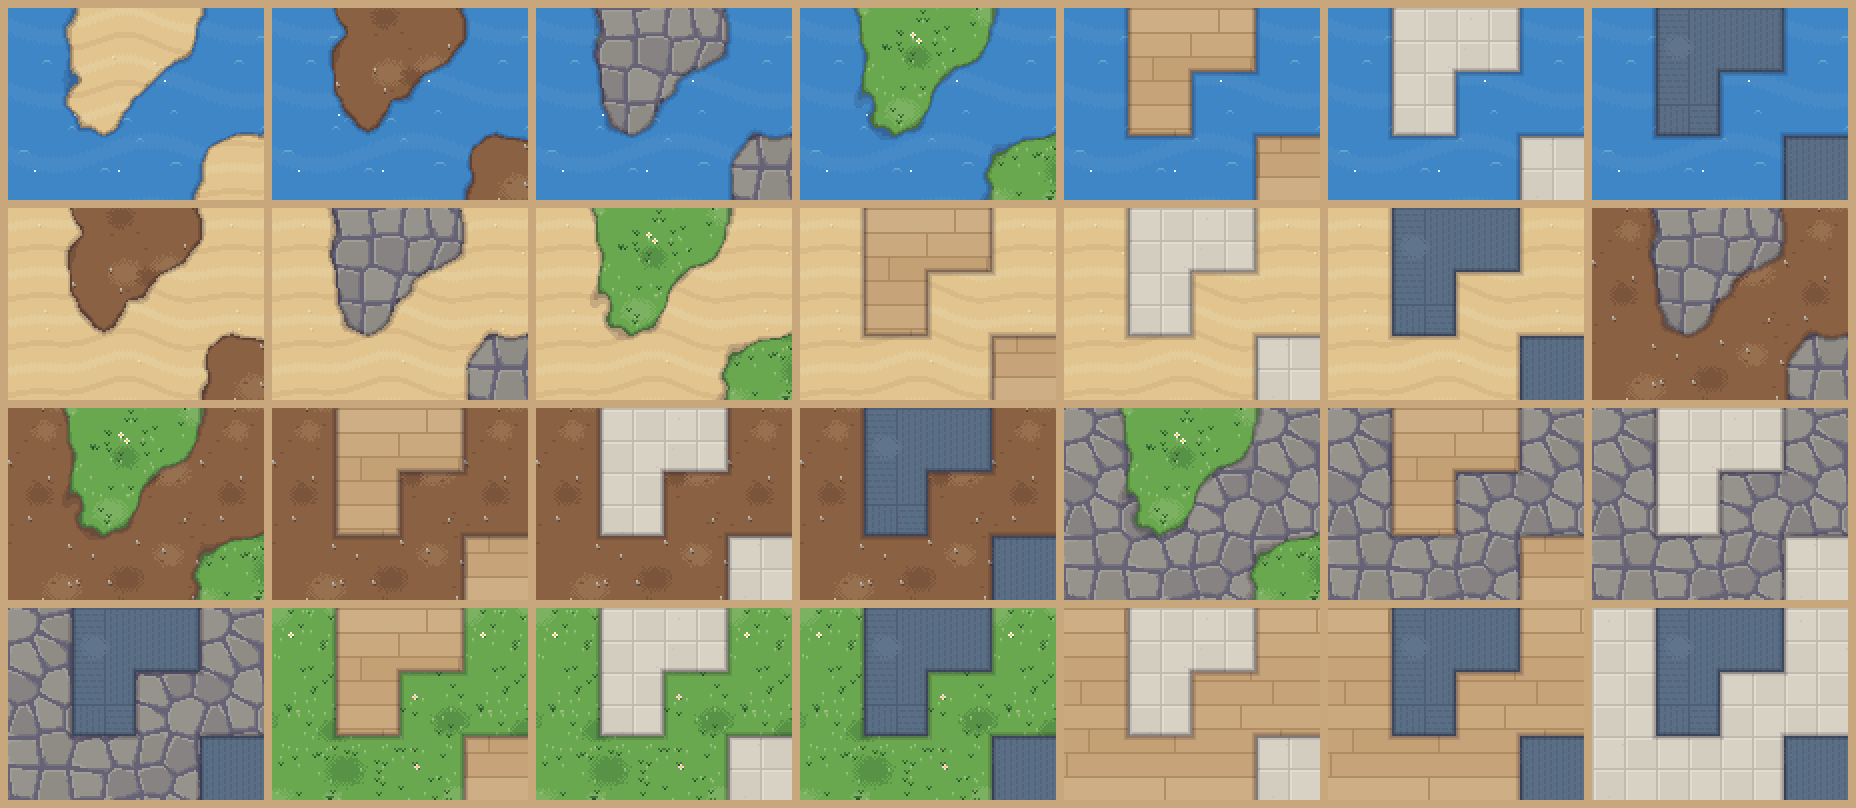
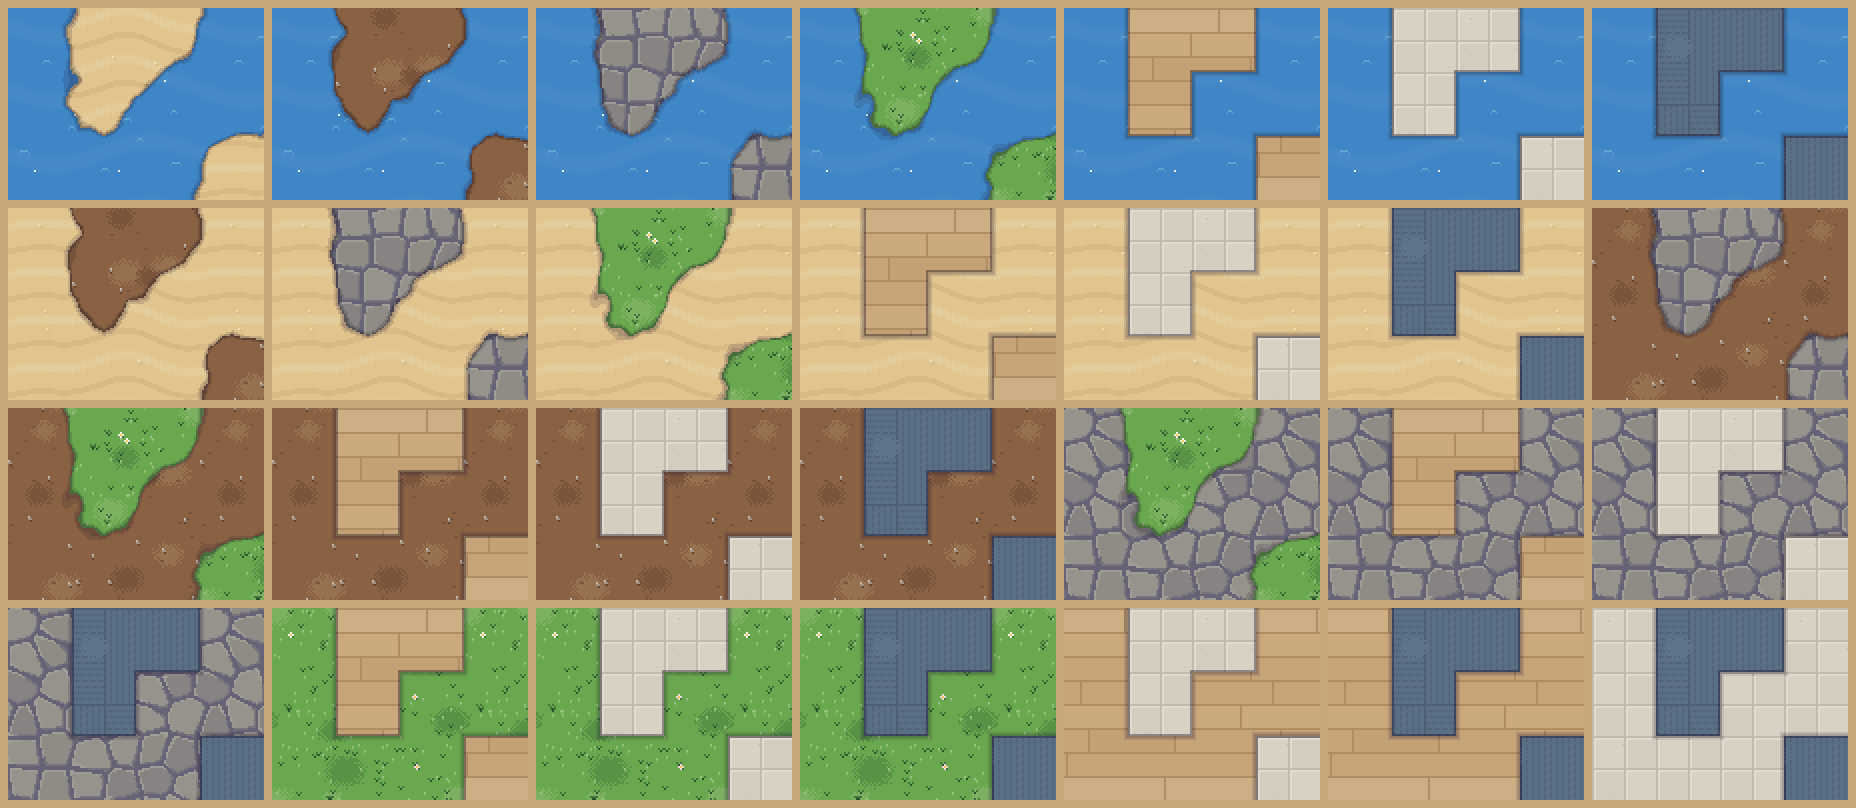
feat(game): thin the rim of built floors to one pixel

Changed region(s): [[0.2188, 0.8045, 0.25, 0.8354], [0.2188, 0.5569, 0.25, 0.5879]]

diff --git a/tools/art/domain/terrainTiles.ts b/tools/art/domain/terrainTiles.ts
@@ -12,7 +12,8 @@
  *   tile line, like the walls standing on it.
  *
  * Near the edge the material gets a darker rim inside and a translucent indigo contact shadow
- * outside, drawn over whatever lies below; one tile works over any lower neighbor.
+ * outside, drawn over whatever lies below; one tile works over any lower neighbor. Built floors
+ * keep a one pixel rim: a two pixel one on a straight tile line read as a wall, not as a floor.
  */
 import { OUTLINE_INK } from '../../../src/game/artColor.ts';
 import {
@@ -33,20 +34,22 @@ export interface TerrainEdge {
   /** How far, in cells, the noise pushes an organic edge off its straight line. */
   readonly amplitude: number;
   readonly seed: number;
+  /** Width of the darker rim inside the edge, in pixels: 2 (strong, then soft) or 1 (strong). */
+  readonly rim: 1 | 2;
 }
 
 export const TERRAIN_EDGES: Readonly<Record<TerrainMaterial, TerrainEdge>> = {
-  water: { style: 'organic', amplitude: 0.15, seed: 101 },
-  grass: { style: 'organic', amplitude: 0.22, seed: 102 },
-  dirt: { style: 'organic', amplitude: 0.18, seed: 103 },
-  sand: { style: 'organic', amplitude: 0.16, seed: 104 },
-  cobblestone: { style: 'organic', amplitude: 0.1, seed: 105 },
-  wood: { style: 'square', amplitude: 0, seed: 106 },
-  tile: { style: 'square', amplitude: 0, seed: 107 },
-  carpet: { style: 'square', amplitude: 0, seed: 108 },
+  water: { style: 'organic', amplitude: 0.15, seed: 101, rim: 2 },
+  grass: { style: 'organic', amplitude: 0.22, seed: 102, rim: 2 },
+  dirt: { style: 'organic', amplitude: 0.18, seed: 103, rim: 2 },
+  sand: { style: 'organic', amplitude: 0.16, seed: 104, rim: 2 },
+  cobblestone: { style: 'organic', amplitude: 0.1, seed: 105, rim: 2 },
+  wood: { style: 'square', amplitude: 0, seed: 106, rim: 1 },
+  tile: { style: 'square', amplitude: 0, seed: 107, rim: 1 },
+  carpet: { style: 'square', amplitude: 0, seed: 108, rim: 1 },
 };
 
-/** One pixel of field, in cells: the rim and the shadow are each two pixels wide. */
+/** One pixel of field, in cells: the shadow is two pixels wide, the rim one or two (`TerrainEdge.rim`). */
 const PIXEL = 1 / ART_TILE;
 const SHADOW_NEAR = rgba(28, 18, 44, 72);
 const SHADOW_FAR = rgba(28, 18, 44, 36);
@@ -125,6 +128,7 @@ function motifOf(material: TerrainMaterial): PixelBuffer {
 export function terrainEdgeTile(material: TerrainMaterial, mask: number, phase: number): PixelBuffer {
   const motif = motifOf(material);
   const origin = terrainPhaseOrigin(phase);
+  const { rim } = TERRAIN_EDGES[material];
   const tile = new PixelBuffer(ART_TILE, ART_TILE);
   for (let y = 0; y < ART_TILE; y += 1) {
     for (let x = 0; x < ART_TILE; x += 1) {
@@ -132,7 +136,7 @@ export function terrainEdgeTile(material: TerrainMaterial, mask: number, phase: 
       if (field >= 0.5) {
         const color = motif.getPixel((origin.x + x) % FLOOR_MOTIF_SIZE, (origin.y + y) % FLOOR_MOTIF_SIZE);
         if (field < 0.5 + PIXEL) tile.setPixel(x, y, mixRgba(color, OUTLINE_INK, 0.38));
-        else if (field < 0.5 + 2 * PIXEL) tile.setPixel(x, y, mixRgba(color, OUTLINE_INK, 0.16));
+        else if (rim === 2 && field < 0.5 + 2 * PIXEL) tile.setPixel(x, y, mixRgba(color, OUTLINE_INK, 0.16));
         else tile.setPixel(x, y, color);
       } else if (field >= 0.5 - PIXEL) tile.setPixel(x, y, SHADOW_NEAR);
       else if (field >= 0.5 - 2 * PIXEL) tile.setPixel(x, y, SHADOW_FAR);

diff --git a/tools/art/domain/terrainTiles.test.ts b/tools/art/domain/terrainTiles.test.ts
@@ -122,6 +122,23 @@ describe('terrain edge tiles', () => {
     expect(rim).toBeGreaterThan(10);
     expect(shadow).toBeGreaterThan(10);
   });
+  it('give built floors a one pixel rim, so their edge reads as floor and not as a wall', () => {
+    for (const material of ['wood', 'tile', 'carpet'] as const) {
+      const motif = terrainTile(material);
+      const origin = terrainPhaseOrigin(0);
+      // Mask nw covers the top-left quarter: rows 0-15, so row 15 is the edge and row 14 the next one in.
+      const tile = terrainEdgeTile(material, TERRAIN_CORNER_BITS.nw, 0);
+      const differs = (x: number, y: number): boolean => {
+        const pixel = tile.getPixel(x, y);
+        const under = motif.getPixel((origin.x + x) % FLOOR_MOTIF_SIZE, (origin.y + y) % FLOOR_MOTIF_SIZE);
+        return pixel.r !== under.r || pixel.g !== under.g || pixel.b !== under.b;
+      };
+      for (let x = 0; x < ART_TILE / 2 - 2; x += 1) {
+        expect(differs(x, ART_TILE / 2 - 1), `${material} edge row, x ${x}`).toBe(true);
+        expect(differs(x, ART_TILE / 2 - 2), `${material} row inside, x ${x}`).toBe(false);
+      }
+    }
+  });
 });
 
 describe('terrain decals', () => {

diff --git a/docs/art/contract.md b/docs/art/contract.md
@@ -57,7 +57,7 @@ Transitions are corner autotiles on a dual grid, so they work between any two ne
 
 - Natural materials (water, grass, dirt, sand, cobblestone) have organic edges: coverage is the bilinear blend of the corners plus smooth noise that repeats with the 96px motif. Both depend only on the shared corners and the world position, so an edge runs on from one cell into the next, and no edge crosses a cell side whose two corners agree.
 - Built floors (wood, tile, carpet) have square edges on the map tile lines, like the walls standing on them.
-- Every edge has a 2px darker rim inside and a 2px translucent indigo contact shadow outside, drawn over whatever is below, so one tile works over any lower neighbor.
+- Every edge has a darker rim inside (2px on natural materials, 1px on wood, tile and carpet, whose straight edge read as a wall with two) and a 2px translucent indigo contact shadow outside, drawn over whatever is below, so one tile works over any lower neighbor.
 - A full tile (mask 15) is exactly the floor motif, so a uniform area looks like the floor piece.
 
 Breaking the straight lines between 9x9 blocks is the map's job (8b), for example by deforming block borders with deterministic noise in the material map; the tiles follow any material map.
